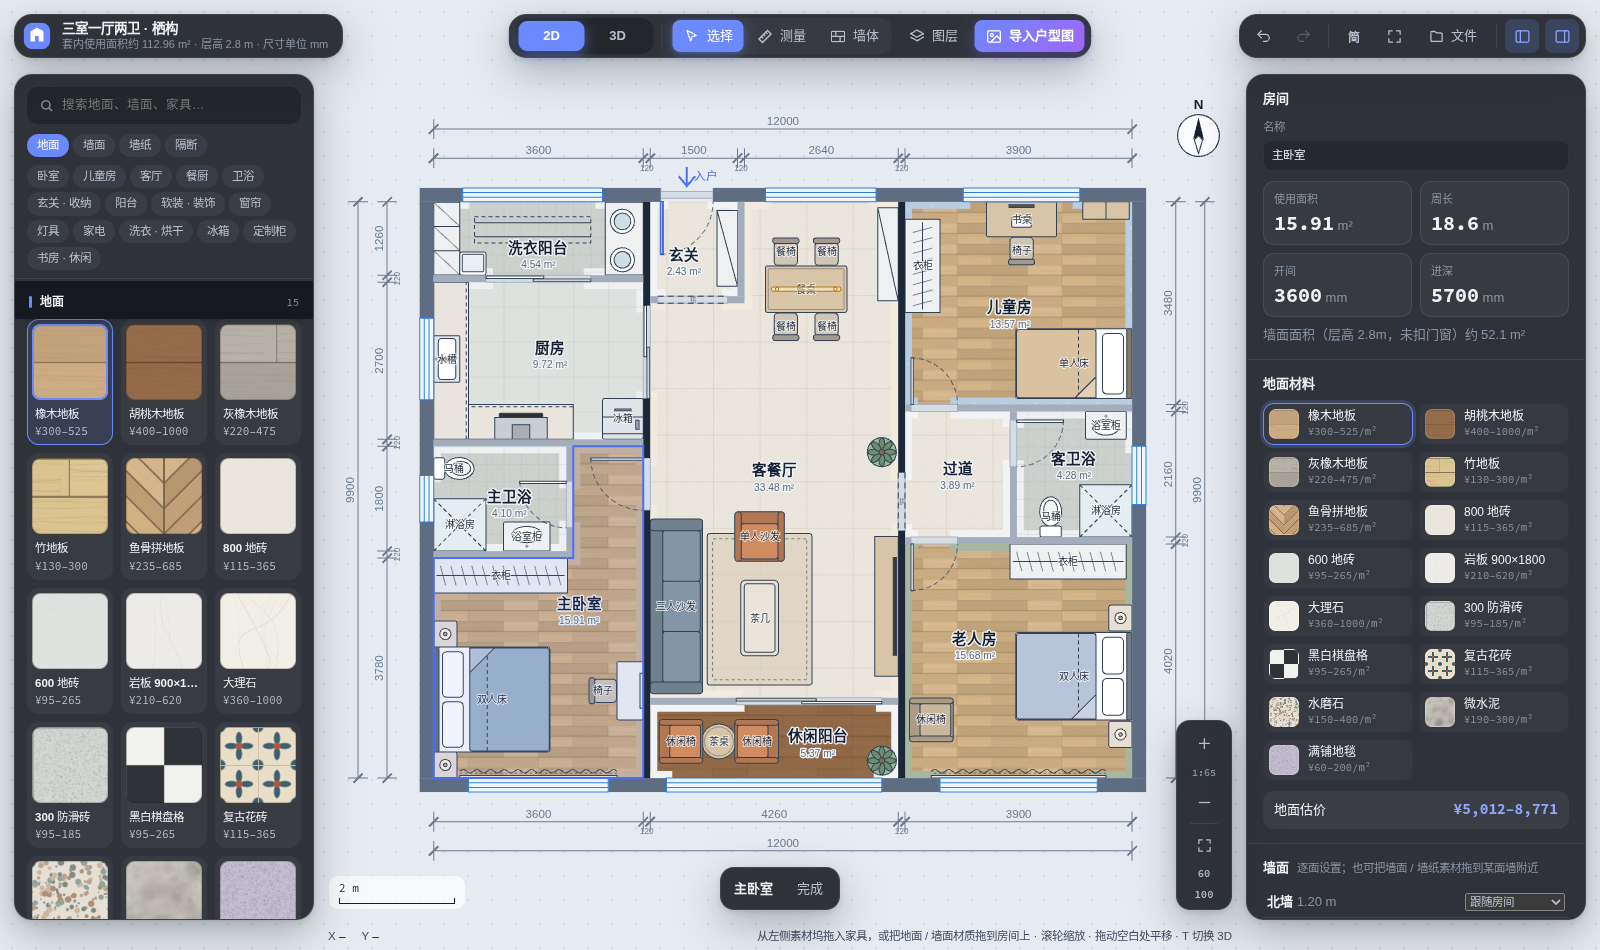
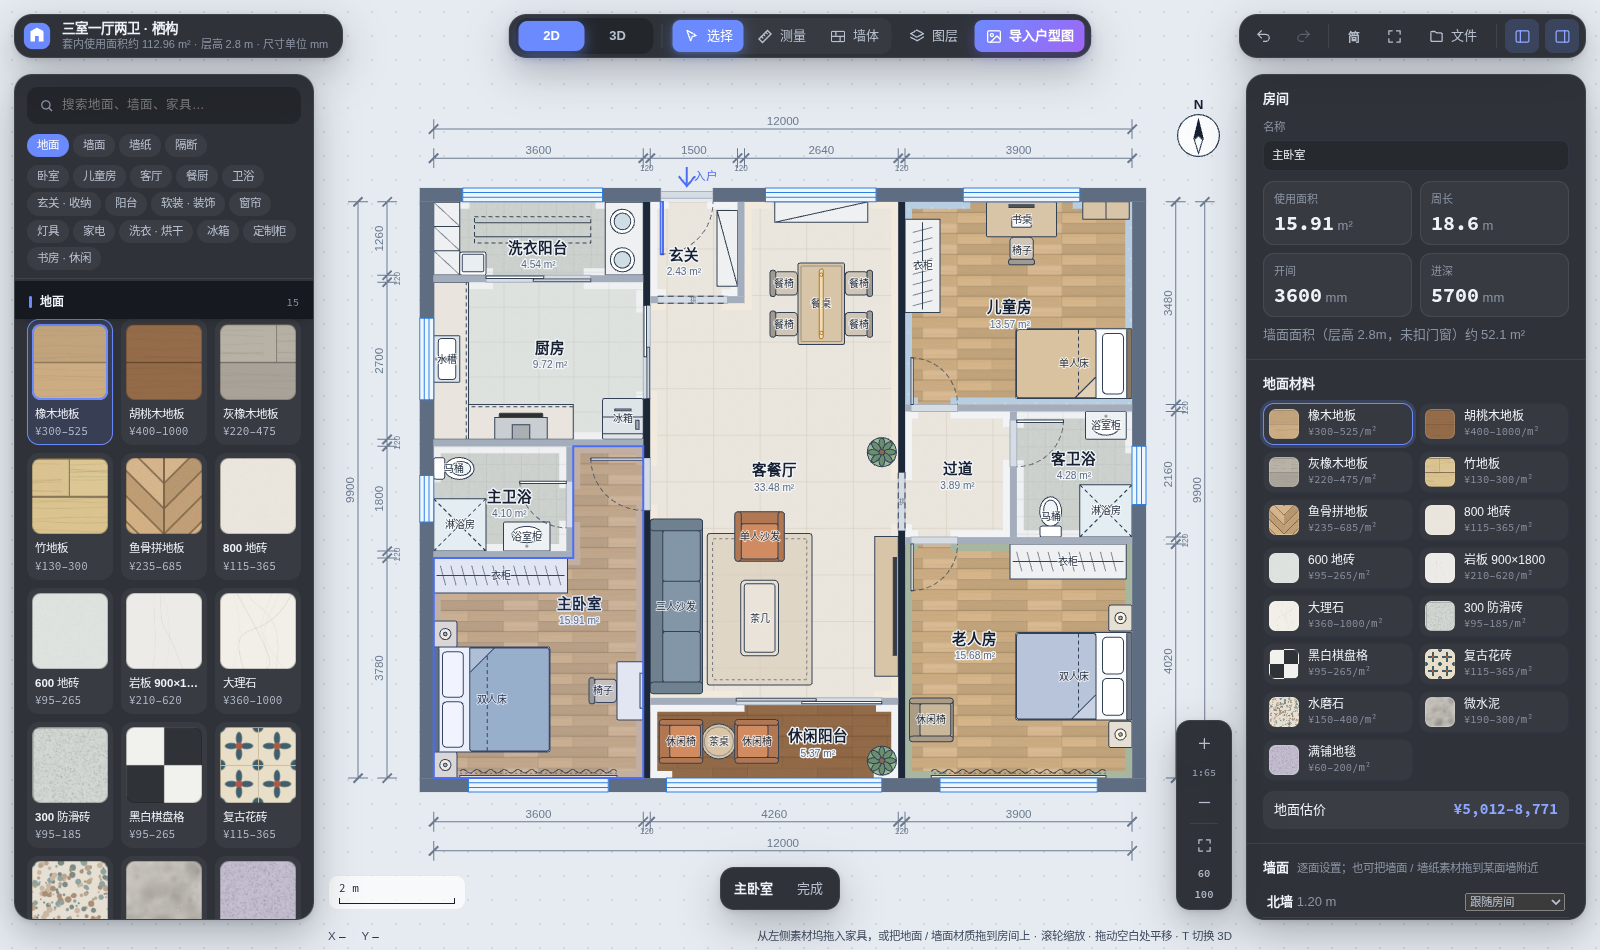
默认户型：餐桌转向，长边顺着进深；餐边柜移到北窗下

Changed region(s): [[0.4688, 0.2137, 0.5625, 0.3663]]

diff --git a/src/data.js b/src/data.js
@@ -262,10 +262,10 @@ export function defaultFurniture(){ return [
   F('drapes','布帘 + 纱帘',1800,9810,2700,180,180),
   // 玄关
   F('shoecab','鞋柜',5045,800,1300,350,90),
-  // 客餐厅：餐区（北窗下的凹位）
-  F('table','餐桌',6400,1500,1400,800), F('cabinet','餐边柜',7805,900,1600,350,90), F('pendant','餐厅吊灯（一字）',6400,1500,1200,70),
-  F('chair','餐椅',6050,860,450,480), F('chair','餐椅',6750,860,450,480),
-  F('chair','餐椅',6050,2140,450,480,180), F('chair','餐椅',6750,2140,450,480,180),
+  // 客餐厅：餐区（北窗下的凹位）——餐桌长边顺着进深，两侧坐人；餐边柜在窗下
+  F('table','餐桌',6660,1750,1400,800,90), F('cabinet','餐边柜',6660,175,1600,350), F('pendant','餐厅吊灯（一字）',6660,1750,1200,70,90),
+  F('chair','餐椅',6020,1400,450,480,270), F('chair','餐椅',6020,2100,450,480,270),
+  F('chair','餐椅',7300,1400,450,480,90), F('chair','餐椅',7300,2100,450,480,90),
   // 客餐厅：客厅区（沙发靠西墙，电视柜靠东墙）
   F('rug','地毯',5600,7000,2600,1800,90), F('sofa','三人沙发',4170,6950,3000,900,270), F('tvstand','电视柜',7780,6950,2400,400,90),
   F('coffeetable','茶几',5600,7150,1300,650,90), F('armchair','单人沙发',5600,5750,850,850),
